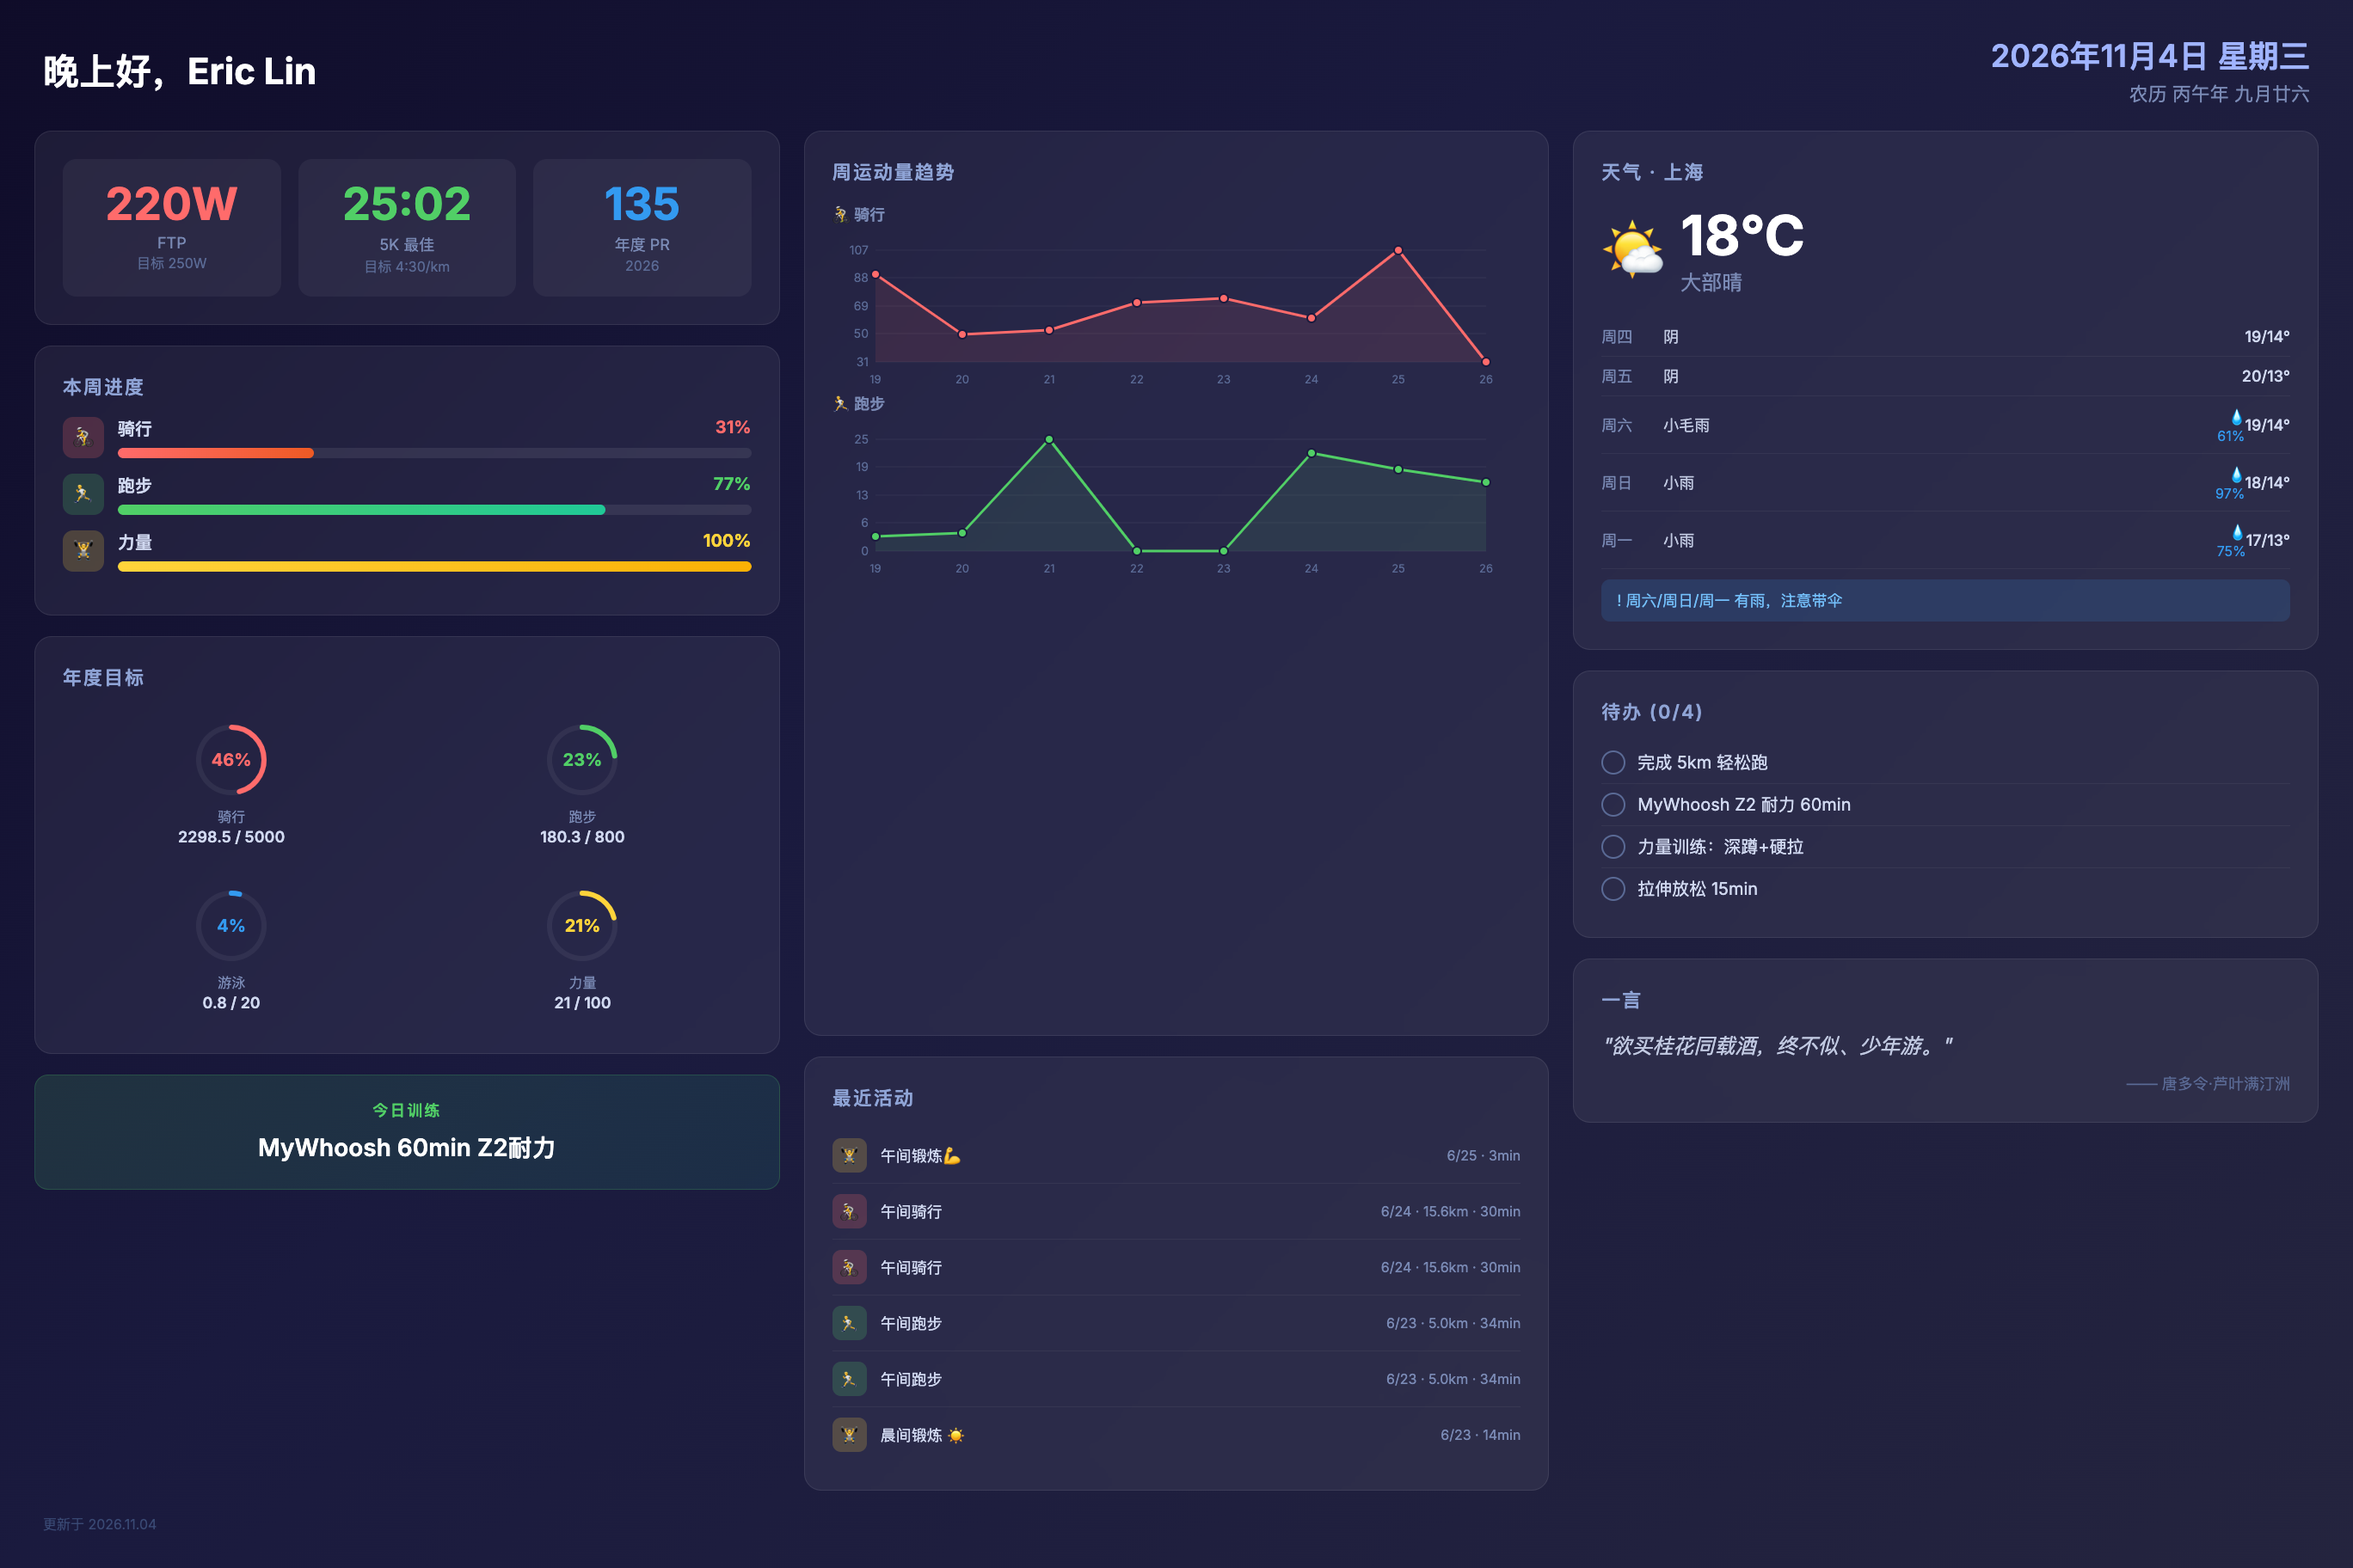
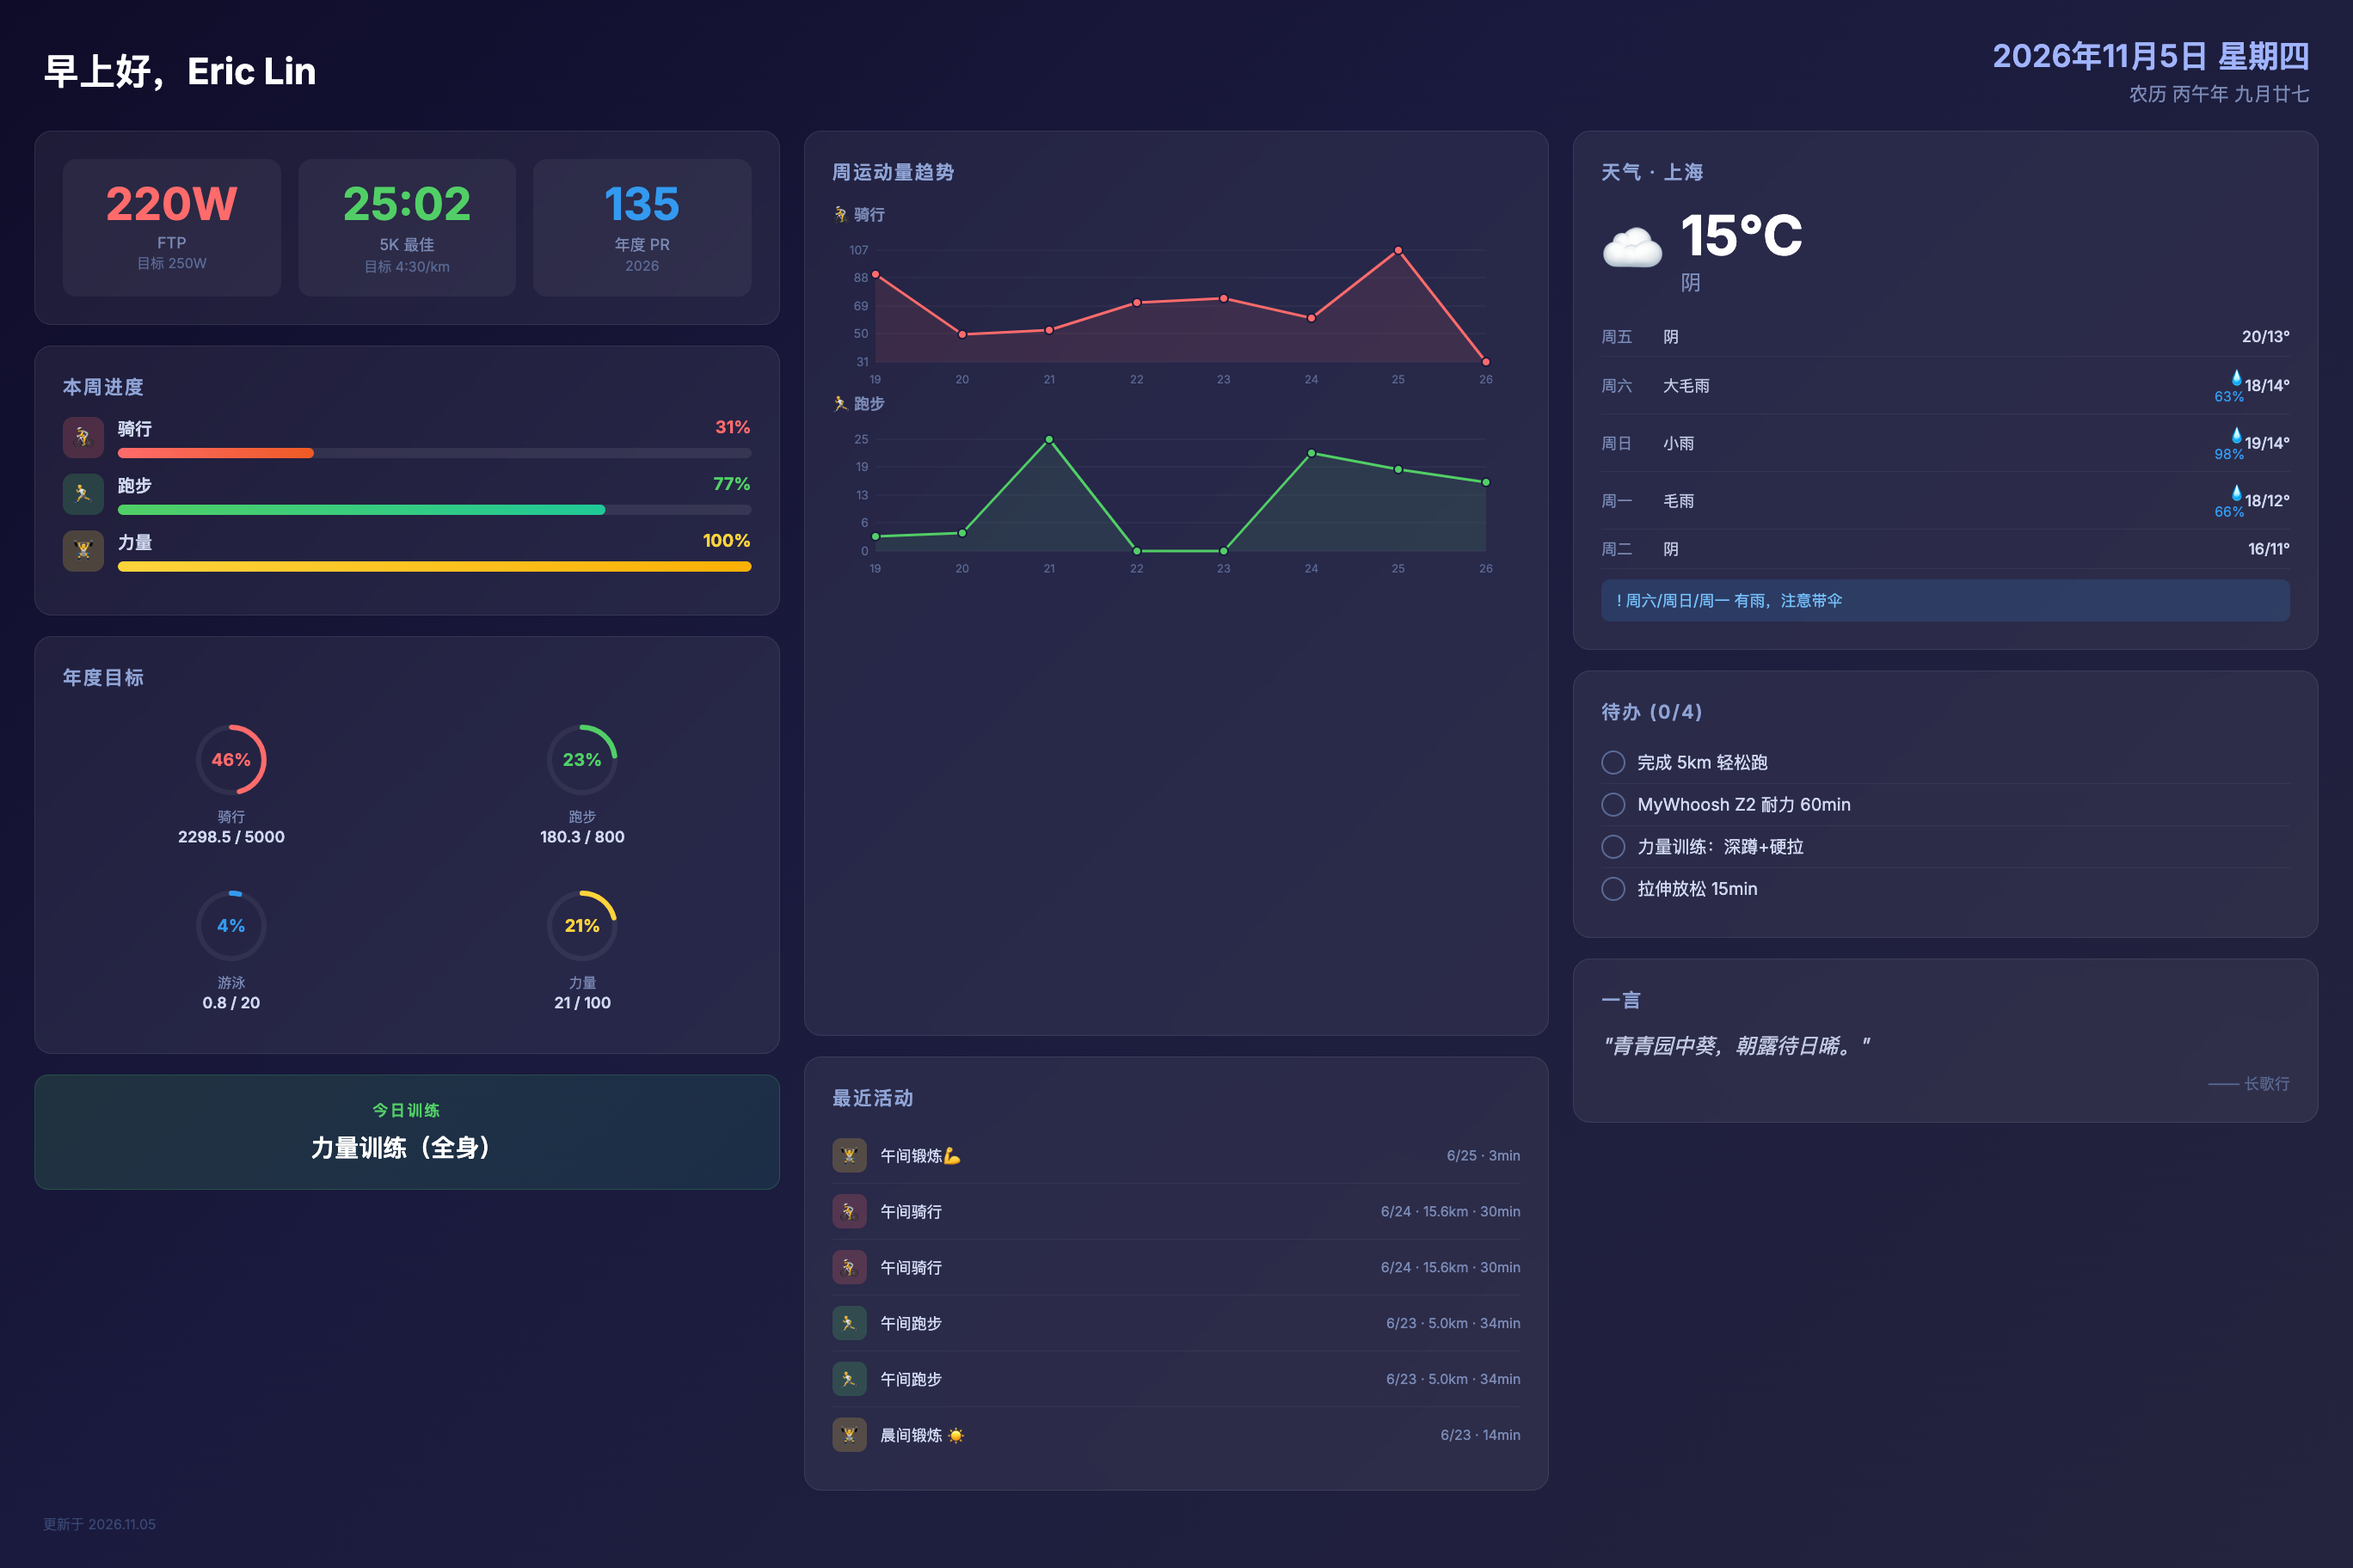
deploy: 2026-11-05-07:00

diff --git a/screensaver.html b/screensaver.html
@@ -490,13 +490,13 @@ html, body {
 <!-- ===== TOP BAR ===== -->
 <div class="top-bar">
   <div>
-    <div class="greeting">晚上好，Eric Lin</div>
+    <div class="greeting">早上好，Eric Lin</div>
     
   </div>
   <div class="date-info">
-    <div class="solar-date">2026年11月4日 星期三</div>
+    <div class="solar-date">2026年11月5日 星期四</div>
     
-    <div class="lunar-date">农历 丙午年 九月廿六</div>
+    <div class="lunar-date">农历 丙午年 九月廿七</div>
     
   </div>
 </div>
@@ -638,7 +638,7 @@ html, body {
   
   <div class="ai-today-card">
     <div class="ai-today-label">今日训练</div>
-    <div class="ai-today-text">MyWhoosh 60min Z2耐力</div>
+    <div class="ai-today-text">力量训练（全身）</div>
   </div>
   
 
@@ -784,20 +784,13 @@ html, body {
   <div class="card">
     <div class="card-title">天气 · 上海</div>
     <div class="weather-current">
-      <div class="weather-icon-big">🌤</div>
+      <div class="weather-icon-big">☁</div>
       <div>
-        <div class="weather-temp-big">18°C</div>
-        <div class="weather-desc">大部晴</div>
+        <div class="weather-temp-big">15°C</div>
+        <div class="weather-desc">阴</div>
       </div>
     </div>
     
-    
-    <div class="forecast-row">
-      <div class="forecast-day">周四</div>
-      <div class="forecast-desc">阴</div>
-      <div class="forecast-precip"></div>
-      <div class="forecast-range">19/14°</div>
-    </div>
     
     <div class="forecast-row">
       <div class="forecast-day">周五</div>
@@ -808,23 +801,30 @@ html, body {
     
     <div class="forecast-row">
       <div class="forecast-day">周六</div>
-      <div class="forecast-desc">小毛雨</div>
-      <div class="forecast-precip">💧61%</div>
-      <div class="forecast-range">19/14°</div>
+      <div class="forecast-desc">大毛雨</div>
+      <div class="forecast-precip">💧63%</div>
+      <div class="forecast-range">18/14°</div>
     </div>
     
     <div class="forecast-row">
       <div class="forecast-day">周日</div>
       <div class="forecast-desc">小雨</div>
-      <div class="forecast-precip">💧97%</div>
-      <div class="forecast-range">18/14°</div>
+      <div class="forecast-precip">💧98%</div>
+      <div class="forecast-range">19/14°</div>
     </div>
     
     <div class="forecast-row">
       <div class="forecast-day">周一</div>
-      <div class="forecast-desc">小雨</div>
-      <div class="forecast-precip">💧75%</div>
-      <div class="forecast-range">17/13°</div>
+      <div class="forecast-desc">毛雨</div>
+      <div class="forecast-precip">💧66%</div>
+      <div class="forecast-range">18/12°</div>
+    </div>
+    
+    <div class="forecast-row">
+      <div class="forecast-day">周二</div>
+      <div class="forecast-desc">阴</div>
+      <div class="forecast-precip"></div>
+      <div class="forecast-range">16/11°</div>
     </div>
     
     
@@ -878,9 +878,9 @@ html, body {
   
   <div class="card">
     <div class="card-title">一言</div>
-    <div class="quote-text">"欲买桂花同载酒，终不似、少年游。"</div>
+    <div class="quote-text">"青青园中葵，朝露待日晞。"</div>
     
-    <div class="quote-from">—— 唐多令·芦叶满汀洲</div>
+    <div class="quote-from">—— 长歌行</div>
     
   </div>
   
@@ -889,7 +889,7 @@ html, body {
 
 <!-- ===== BOTTOM BAR ===== -->
 <div class="bottom-bar">
-  <div class="update-time">更新于 2026.11.04</div>
+  <div class="update-time">更新于 2026.11.05</div>
 </div>
 
 </div>

diff --git a/life.html b/life.html
@@ -89,7 +89,7 @@ html, body {
 <table class="header-table">
   <tr>
     <td class="header-left">生活</td>
-    <td class="header-right">2026.11.04</td>
+    <td class="header-right">2026.11.05</td>
   </tr>
 </table>
 
@@ -137,20 +137,13 @@ html, body {
   <p class="section-title">☀ 天气 · 上海</p>
   <table class="weather-table">
     <tr>
-      <td class="weather-icon">*</td>
-      <td class="weather-temp">18°C</td>
-      <td class="weather-desc">大部晴</td>
+      <td class="weather-icon">~</td>
+      <td class="weather-temp">15°C</td>
+      <td class="weather-desc">阴</td>
     </tr>
   </table>
   
   <table class="forecast-table">
-    
-    <tr>
-      <td class="forecast-day">周四</td>
-      <td class="forecast-icon">~</td>
-      <td>阴</td>
-      <td class="forecast-range">19/14°C</td>
-    </tr>
     
     <tr>
       <td class="forecast-day">周五</td>
@@ -162,36 +155,43 @@ html, body {
     <tr>
       <td class="forecast-day">周六</td>
       <td class="forecast-icon">.</td>
-      <td>小毛雨</td>
-      <td class="forecast-range">19/14°C</td>
+      <td>大毛雨</td>
+      <td class="forecast-range">18/14°C</td>
     </tr>
     
     <tr>
       <td class="forecast-day">周日</td>
       <td class="forecast-icon">.</td>
       <td>小雨</td>
-      <td class="forecast-range">18/14°C</td>
+      <td class="forecast-range">19/14°C</td>
     </tr>
     
     <tr>
       <td class="forecast-day">周一</td>
       <td class="forecast-icon">.</td>
-      <td>小雨</td>
-      <td class="forecast-range">17/13°C</td>
+      <td>毛雨</td>
+      <td class="forecast-range">18/12°C</td>
     </tr>
     
     <tr>
       <td class="forecast-day">周二</td>
-      <td class="forecast-icon">.</td>
-      <td>小毛雨</td>
-      <td class="forecast-range">17/10°C</td>
+      <td class="forecast-icon">~</td>
+      <td>阴</td>
+      <td class="forecast-range">16/11°C</td>
     </tr>
     
     <tr>
       <td class="forecast-day">周三</td>
       <td class="forecast-icon">~</td>
       <td>阴</td>
-      <td class="forecast-range">18/9°C</td>
+      <td class="forecast-range">18/10°C</td>
+    </tr>
+    
+    <tr>
+      <td class="forecast-day">周四</td>
+      <td class="forecast-icon">~</td>
+      <td>阴</td>
+      <td class="forecast-range">21/12°C</td>
     </tr>
     
   </table>
@@ -207,10 +207,10 @@ html, body {
   <p class="section-title">📅 今日</p>
   <table class="data-table">
     <tr>
-      <td>2026年11月4日 星期二</td>
+      <td>2026年11月5日 星期三</td>
     </tr>
     <tr>
-      <td>农历丙午年 九月廿六</td>
+      <td>农历丙午年 九月廿七</td>
     </tr>
   </table>
 </div>
@@ -261,9 +261,9 @@ html, body {
 
 <div class="box">
   <p class="section-title">💬 一言</p>
-  <p class="quote-text">欲买桂花同载酒，终不似、少年游。</p>
+  <p class="quote-text">青青园中葵，朝露待日晞。</p>
   
-  <p class="quote-from">—— 唐多令·芦叶满汀洲</p>
+  <p class="quote-from">—— 长歌行</p>
   
 </div>
 

diff --git a/index.html b/index.html
@@ -74,7 +74,7 @@ html, body {
 <table class="header-table">
   <tr>
     <td class="header-left">Eric Lin · 运动</td>
-    <td class="header-right">2026.11.04</td>
+    <td class="header-right">2026.11.05</td>
   </tr>
 </table>
 
@@ -225,17 +225,10 @@ html, body {
 <div class="ai-plan">
   <div class="ai-plan-title">AI 训练建议</div>
   
-  <div class="ai-today">今日: 轻松跑 5km</div>
+  <div class="ai-today">今日: MyWhoosh 间歇 6×3min 高功率</div>
   
   
   <table class="ai-weekly">
-    
-    <tr>
-      <td class="day">周三</td>
-      
-      <td>轻松跑 5km</td>
-      
-    </tr>
     
     <tr>
       <td class="day">周四</td>
@@ -276,6 +269,13 @@ html, body {
       <td class="day">周二</td>
       
       <td>阈值训练 3×8min @260W</td>
+      
+    </tr>
+    
+    <tr>
+      <td class="day">周三</td>
+      
+      <td>轻松跑 5km</td>
       
     </tr>
     

diff --git a/work.html b/work.html
@@ -89,7 +89,7 @@ html, body {
 <table class="header-table">
   <tr>
     <td class="header-left">工作</td>
-    <td class="header-right">2026.11.04</td>
+    <td class="header-right">2026.11.05</td>
   </tr>
 </table>
 
